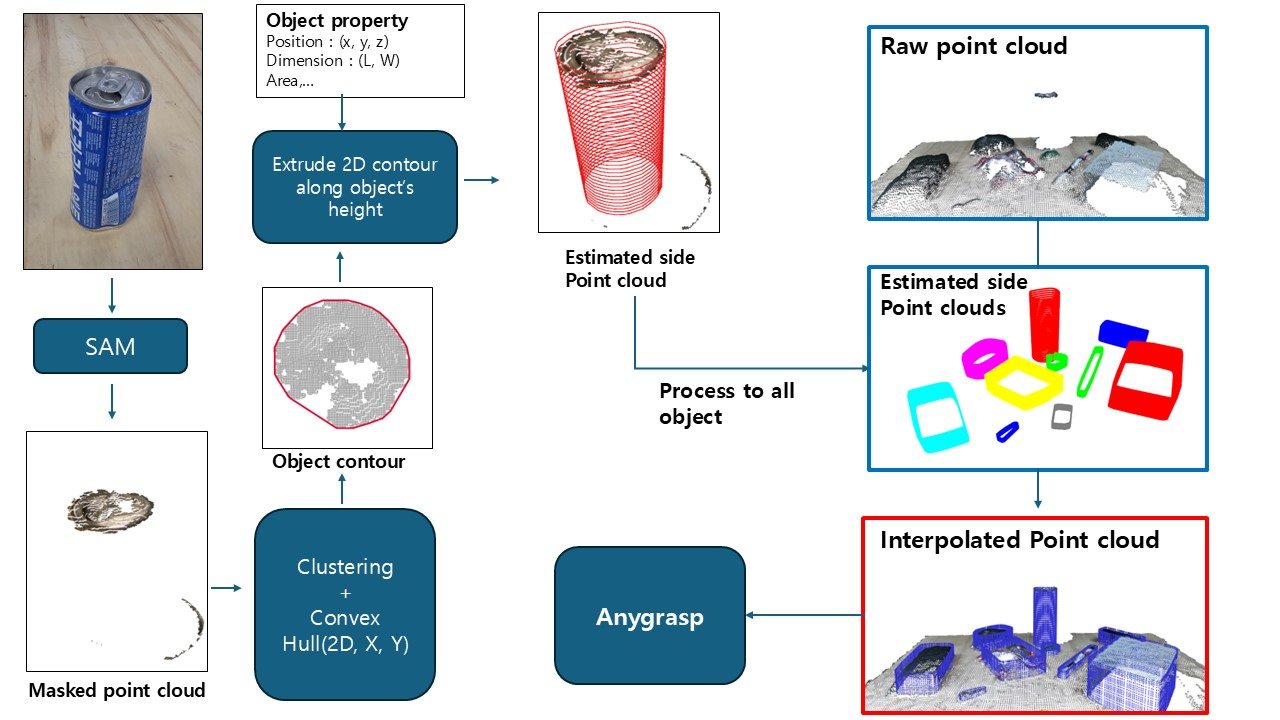
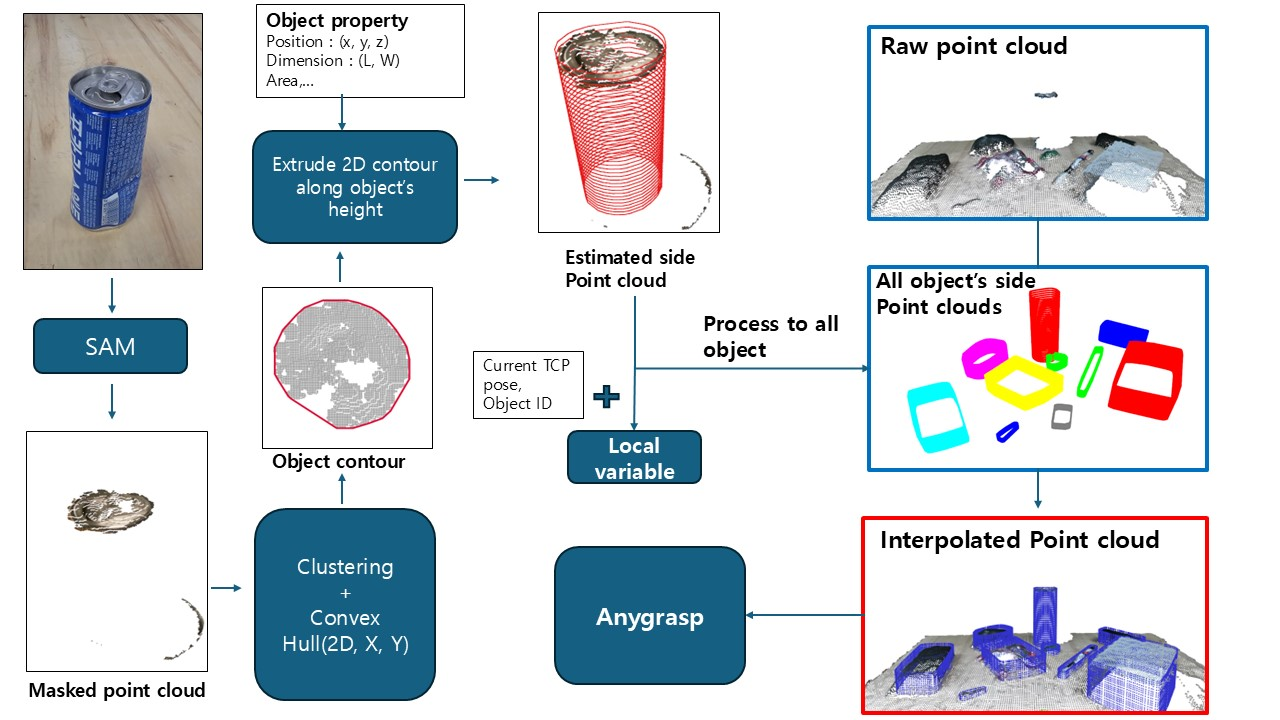
.

Changed region(s): [[0.4375, 0.4278, 0.6562, 0.6722], [0.6875, 0.3667, 0.8125, 0.4583], [0.375, 0.4889, 0.4375, 0.5806]]

diff --git a/projects/project1_LLM_controlled_robot.md b/projects/project1_LLM_controlled_robot.md
@@ -134,6 +134,8 @@ In this project, The robot observes scenes from a top-down viewpoint, leaving mo
 To address this limitation, **Fig. 9** introduces a simple side point cloud interpolation method: first, conduct cluster with DBSCAN, and select the largest-volume cluster, then I extruded the object’s convex hull contour (in the XY-plane) vertically to the estimated object height, effectively forming a “wall” of points around the sides.
 This augmentation improves AnyGrasp’s ability to generate stable grasp poses under partial occlusions as shown in **Fig. 10 and 11**.
 
+For efficiency, I linked each object’s side point cloud to its object ID and transform it to world coordinates by applying the TCP pose at capture time.saving these clouds and update their poses whenever the objects move. This let the program run DINO+SAM only once at the start and later cycles reuse the saved clouds for non-target objects, cutting compute and speeding up the system.
+
 {% include project-media.html
    type="image"
    src="side_interpol_des.png"
@@ -145,6 +147,9 @@ This augmentation improves AnyGrasp’s ability to generate stable grasp poses u
   {% include project-media.html type="image" src="improved_side_grasp.jpg" caption="Fig. 10  Side grasp capability improved by side point cloud interpolation." muted=true autoplay=true loop=true%}
   {% include project-media.html type="image" src="collision_detect.jpg" caption=" Fig. 11  Collision detection driven by the interpolated side point cloud" muted=true autoplay=true loop=true%}
 </div>
+
+### Singular problem Approach
+
 
 
 ## Future Work
